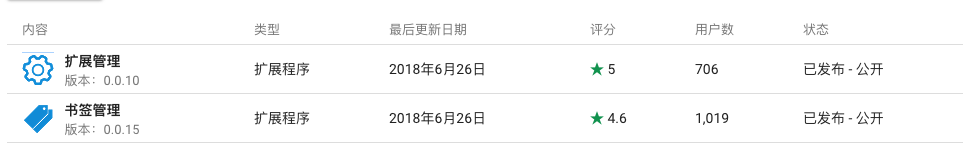
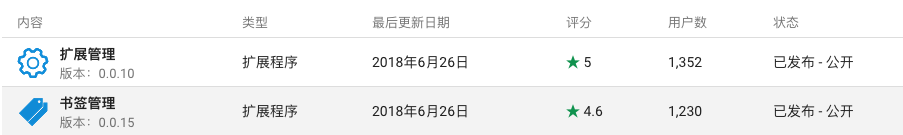
更新文档

diff --git a/README.md b/README.md
@@ -1,6 +1,6 @@
 ## 商店截图
 ![image](https://github.com/zangse/vue-chrome-extension/blob/master/screenshots/chrome-extension.png)
-### 截止2018年8月30日 书签管理用户数 1000+，扩展管理用户数700+
+### 截止2018年8月30日 书签管理用户数 1200+，扩展管理用户数1300+
 ## chrome 扩展文档
 
 ## Chrome-extension（基于vue.js开发Chrome扩展）
